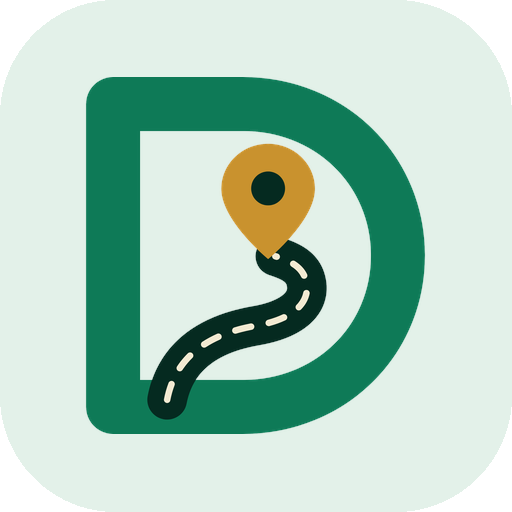
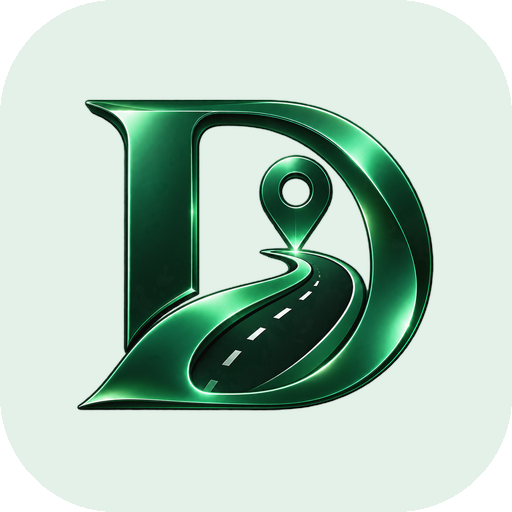
Brand: the owner's artwork is the mark again (DECISION-120)
The flat vector redraw read as a line drawing, and the owner wants back the picture they
approved: the emerald letter with its bevel and glow, the road and the pin. Every raster is cut
from docs/design/brand/dalini-logo.png again (the launcher icons, symbol and splash, the store's
icon, the web symbols with a new 512, the site's and console's icons), and the share card and
the Play feature graphic are re-rendered with it. The SVGs and their master are removed.

diff --git a/apps/web/scripts/og-card.html b/apps/web/scripts/og-card.html
@@ -47,7 +47,7 @@
       <p>الصيدليات والعيادات والخدمات القريبة منك</p>
       <span class="chip">صيدليات مناوبة الآن</span>
     </div>
-    <img class="mark" src="../../../packages/design-tokens/brand/mark-on-dark.svg" alt="">
+    <img class="mark" src="../../../packages/design-tokens/brand/symbol-512.webp" alt="">
   </main>
 </body>
 </html>

diff --git a/apps/android/scripts/build-brand-assets.py b/apps/android/scripts/build-brand-assets.py
@@ -1,15 +1,14 @@
-"""Cut every brand raster the platform ships from the one approved mark.
+"""Cut every brand raster the platform ships from the one approved artwork.
 
-The mark is drawn once, as vectors: `packages/design-tokens/brand/mark.svg` — the letter, the road
-that winds through it and the pin it leads to (DECISION-060). `docs/design/brand/dalini-mark.png`
-is that file rendered at 2048 px, and everything else — the symbol the app draws, the launcher
-icon at five densities, the round icon, the store's 512, the site's and the console's icons, the
-web symbol — is a scaling of it, none drawn by hand. After changing the SVG, re-render the master
-(see `docs/design/BRAND-ASSETS.md`), run this, and commit what it writes.
+The owner supplies a single picture: the letter with the road and the pin, the name under it
+(`docs/design/brand/dalini-logo.png`, DECISION-120). Everything else — the symbol the app draws,
+the launcher icon at five densities, the round icon, the store's 512, the site's and the
+console's icons, the web symbol — is a crop or a scaling of that file, none drawn by hand. Run
+this after replacing the artwork and commit what it writes.
 
 Two rules decide the geometry, and both come from Android rather than from taste:
 
-* The name is never part of an asset. A name baked into a picture cannot be set in the app's
+* The wordmark is left out of every asset. A name baked into a picture cannot be set in the app's
   typeface, read aloud, or corrected without an image editor, so every surface draws the mark and
   writes the name itself (`BrandLockup` on Android).
 * On an adaptive icon the launcher shows the middle 72 of a 108 canvas and may mask it to a
@@ -22,6 +21,7 @@ Needs Pillow: `python -m pip install pillow`.
 from __future__ import annotations
 
 import json
+from collections import deque
 from pathlib import Path
 
 import numpy as np
@@ -29,7 +29,7 @@ from PIL import Image, ImageDraw
 
 REPO = Path(__file__).resolve().parents[3]
 ANDROID = REPO / "apps/android"
-SOURCE = REPO / "docs/design/brand/dalini-mark.png"
+SOURCE = REPO / "docs/design/brand/dalini-logo.png"
 TOKENS = REPO / "packages/design-tokens/tokens/colors.json"
 
 SYMBOL = ANDROID / "core/designsystem/src/androidMain/res/drawable-nodpi/brand_symbol.webp"
@@ -60,13 +60,43 @@ SPLASH_PIXELS = 864  # 288 dp at 3x, so the mark stays sharp where the system dr
 INK = 24  # Below this the pixel is the artwork's glow fading out, not the mark.
 
 
-def mark(source: Image.Image) -> Image.Image:
-    """The mark, trimmed to its ink and centred on a square of its own.
+def largest_ink_island(alpha: np.ndarray) -> np.ndarray:
+    """The letter, without the word under it: the biggest thing in the picture."""
+    ink = alpha > INK
+    seen = np.zeros(ink.shape, dtype=bool)
+    height, width = ink.shape
+    best: list[tuple[int, int]] = []
+    for row in range(height):
+        for column in range(width):
+            if not ink[row, column] or seen[row, column]:
+                continue
+            stack = deque([(row, column)])
+            seen[row, column] = True
+            island: list[tuple[int, int]] = []
+            while stack:
+                y, x = stack.pop()
+                island.append((y, x))
+                for dy, dx in ((1, 0), (-1, 0), (0, 1), (0, -1)):
+                    ny, nx = y + dy, x + dx
+                    if 0 <= ny < height and 0 <= nx < width and ink[ny, nx] and not seen[ny, nx]:
+                        seen[ny, nx] = True
+                        stack.append((ny, nx))
+            if len(island) > len(best):
+                best = island
+    mask = np.zeros(ink.shape, dtype=bool)
+    rows, columns = zip(*best)
+    mask[np.array(rows), np.array(columns)] = True
+    return mask
 
-    The letter, the road and the pin are separate shapes, so the whole picture is kept: the
-    master holds the mark and nothing else.
-    """
-    letter = source.crop(source.split()[3].getbbox())
+
+def mark(source: Image.Image) -> Image.Image:
+    """The letter alone, trimmed and centred on a square of its own."""
+    alpha = np.array(source.split()[3])
+    kept = largest_ink_island(alpha)
+    pixels = np.array(source)
+    pixels[..., 3] = np.where(kept, alpha, 0)
+    letter = Image.fromarray(pixels, "RGBA")
+    letter = letter.crop(letter.split()[3].getbbox())
     side = max(letter.size)
     square = Image.new("RGBA", (side, side), (0, 0, 0, 0))
     square.paste(letter, ((side - letter.width) // 2, (side - letter.height) // 2), letter)
@@ -147,7 +177,7 @@ def main() -> int:
     write(store.convert("RGB"), STORE_ICON, format="PNG")
 
     print("the symbol the site and the console draw beside the name:")
-    for side in (64, 128, 256):
+    for side in (64, 128, 256, 512):
         write(letter.resize((side, side), Image.LANCZOS), WEB_SYMBOLS / f"symbol-{side}.webp",
               format="WEBP", quality=94, method=6)
 

diff --git a/docs/design/BRAND-ASSETS.md b/docs/design/BRAND-ASSETS.md
@@ -7,13 +7,13 @@ listed as a placeholder may be shipped to a store as if it were approved.
 
 | Asset | Status | Where |
 |---|---|---|
-| The mark | **APPROVED** (identity v2, 2026-10-03, DECISION-060) | `packages/design-tokens/brand/mark.svg`, and `mark-on-dark.svg` for the bars and the dark theme: the letter, the road that winds through it and the gold pin it leads to, flat, drawn as vectors. It is the owner's artwork (`docs/design/brand/dalini-logo.png`, approved 2026-09-25) without the bevels and glow, which blurred into a smudge at icon sizes |
-| The raster master | generated | `docs/design/brand/dalini-mark.png`, `mark.svg` rendered at 2048 px with a transparent ground. Every raster the platform ships is cut from it by `apps/android/scripts/build-brand-assets.py`; none is drawn by hand. To change the mark: edit the SVG, re-render the master at 2048 px, run the script, commit what it writes |
-| Brand symbol | **APPROVED** | `apps/android/core/designsystem/src/androidMain/res/drawable-nodpi/brand_symbol.webp`, drawn by `BrandSymbol`, and `packages/design-tokens/brand/symbol-{64,128,256}.webp` for the site and the console. The name is never part of it: a name baked into a picture cannot be set in the brand's typeface, read aloud by a screen reader, or corrected without an image editor. `BrandLockup` writes the name instead |
+| The mark | **APPROVED** (2026-09-25; restored 2026-10-16, DECISION-120) | `docs/design/brand/dalini-logo.png`, the owner's artwork: the emerald letter with its bevel and glow, the road that winds through it and the pin it leads to, the name under it. A flat vector redraw replaced it on 2026-10-03 (DECISION-060) and was retired at the owner's word: the artwork is the brand |
+| How the rasters are cut | generated | Every raster the platform ships is cut from the artwork by `apps/android/scripts/build-brand-assets.py`, none drawn by hand: the letter is the largest piece of ink in the picture, so the name under it is left out. To change the mark: replace the artwork, run the script, commit what it writes |
+| Brand symbol | **APPROVED** | `apps/android/core/designsystem/src/androidMain/res/drawable-nodpi/brand_symbol.webp`, drawn by `BrandSymbol`, and `packages/design-tokens/brand/symbol-{64,128,256,512}.webp` for the site, the console and the cards. The name is never part of it: a name baked into a picture cannot be set in the brand's typeface, read aloud by a screen reader, or corrected without an image editor. `BrandLockup` writes the name instead |
 | Splash mark | **APPROVED** | `apps/android/core/designsystem/src/androidMain/res/drawable/brand_mark.xml`, a bitmap of `splash_symbol.webp`. Android scales a splash icon into a 288 dp box and masks it to the launcher's shape, and this letter's ink reaches the corners of its box: drawn edge to edge it came back with its sides cut off, photographed on the A52. So the margin is inside the pixels — the mark is cut at 90 dp of a 288 dp canvas — rather than being a layer the system is free to ignore. The app's own splash then grows it to the 120 dp it draws, and `SplashThemeTest` fails if the baked size and the size it grows from stop agreeing |
 | Launcher icon | **APPROVED** | `apps/android/app/src/main/res/mipmap-anydpi-v26/ic_launcher.xml` from Android 8, over `drawable-nodpi/ic_launcher_foreground.webp` on `brand_launcher_background` (token `colors.primarySoft`); five densities of whole icons, square and round, for older launchers. The mark is scaled until the circle enclosing its ink is 66 of the 108-unit canvas — the part no launcher's mask cuts into, whatever shape it prefers |
 | Store icon | **APPROVED** | `docs/design/brand/play-store-icon.png`, 512 × 512 and opaque, as Play requires (`20-GOOGLE-PLAY-RELEASE.md`) |
-| Feature graphic | draft, for the owner's approval (DECISION-084) | `docs/design/brand/play-feature-graphic.png`, 1024 × 500: `mark-on-dark.svg` on the bars' deep green, with quiet roads ending at pins and kept clear of the mark. No name and no words: Play prints the name beside it. Rendered from the SVG and the colour tokens by `apps/web/scripts/play-feature-graphic.mjs`, never drawn by hand |
+| Feature graphic | draft, for the owner's approval (DECISION-084) | `docs/design/brand/play-feature-graphic.png`, 1024 × 500: the symbol on the bars' deep green, with quiet roads ending at pins and kept clear of the mark. No name and no words: Play prints the name beside it. Rendered from `symbol-512.webp` and the colour tokens by `apps/web/scripts/play-feature-graphic.mjs`, never drawn by hand |
 | Web icons | **APPROVED** | `apps/web/app/icon.png` and `apps/admin/app/icon.png` (512, rounded) and `apps/web/app/apple-icon.png` (180, opaque): the launcher's tile, from the same script |
 
 There is no monochrome layer, so Android 13's themed icons fall back to the icon above. The

diff --git a/docs/design/DESIGN-SYSTEM.md b/docs/design/DESIGN-SYSTEM.md
@@ -18,7 +18,7 @@
 | كلمات الحالات وألوانها | `vocabulary.json` | الموقع ولوحة الإدارة، ونصوص أندرويد، وآيفون |
 | الأيقونات (59 أيقونة) | `icons/*.svg` | الموقع ولوحة الإدارة، ورسومات أندرويد |
 | الرسومات التوضيحية | `illustrations/*.svg` | الصفحات الفارغة والأخطاء وانقطاع الاتصال والصيانة |
-| رمز العلامة | `brand/mark.svg` و`brand/mark-on-dark.svg` (الشعار المعتمد مسطّحاً) | رأس الموقع، وشريط لوحة الإدارة، وأيقونات المتصفح والتطبيق |
+| رمز العلامة | `brand/symbol-{64,128,256,512}.webp` مقصوصة من عمل المالك `docs/design/brand/dalini-logo.png` (DECISION-120) | رأس الموقع، وشريط لوحة الإدارة، وأيقونات المتصفح والتطبيق |
 
 كل ما في `generated/` يُولَّد آلياً بالأمر `pnpm --filter @servacode/design-tokens generate`،
 ولا يُعدَّل يدوياً. فحص التكامل المستمر يرفض أي اختلاف بين المصدر وما وُلِّد منه، ويرفض أي

diff --git a/docs/project/DECISIONS.md b/docs/project/DECISIONS.md
@@ -3170,3 +3170,18 @@ the ownership».
 * Both sides are told in their inbox; the change is audited with who owned it before.
 * In the console, «نقل الملكية» on each facility's card, with the number and «إبقاء المالك الحالي
   مديراً فيها». The operator checks both sides before pressing it: the transfer is on their word.
+
+## DECISION-120 — The owner's artwork is the mark again
+
+**Date:** 2026-10-16. Asked by the owner.
+
+The flat vector redraw of DECISION-060 (2026-10-03) read as a line drawing, and the owner wants
+the picture they approved on 2026-09-25 back: the emerald letter with its bevel and glow, the road
+and the pin.
+
+* `build-brand-assets.py` cuts every raster from `docs/design/brand/dalini-logo.png` again, the
+  name under the letter left out as before: the app's symbol and splash, the launcher icons, the
+  store's icon, the web symbols (now with a 512 for the cards), and the site's and console's icons.
+* The share card (`opengraph-image.png`) and the Play feature graphic are re-rendered with it.
+* `mark.svg`, `mark-on-dark.svg` and their 2048 px master are removed; nothing draws them now.
+* The faces and colours of identity v2 stay as they are.
